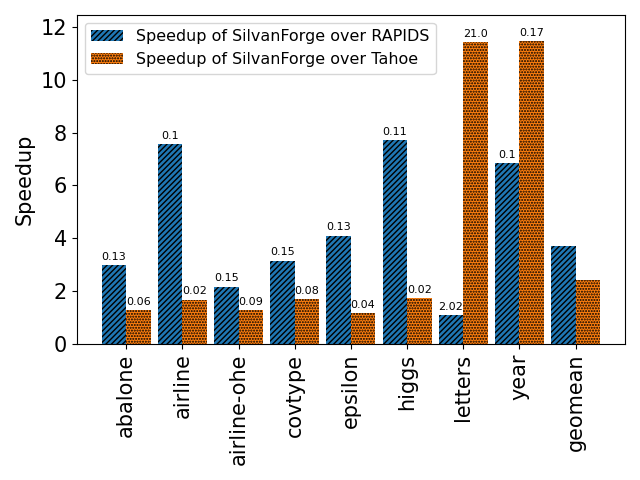
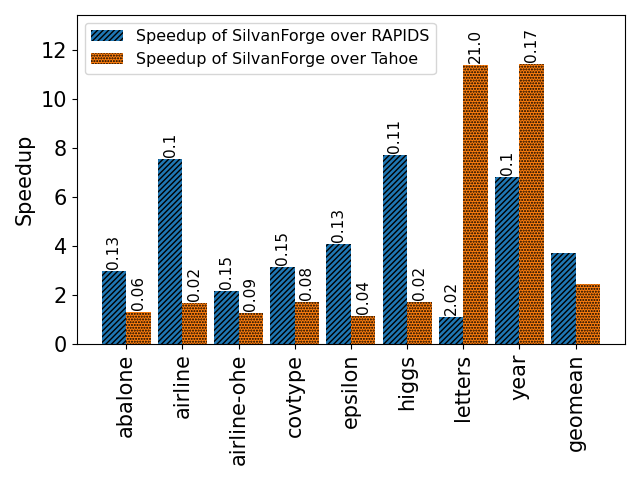
rotate bar labels 90 deg and make it slightly bigger

diff --git a/results/python/analyze_gpu_speedups_results.py b/results/python/analyze_gpu_speedups_results.py
@@ -19,7 +19,7 @@ PLOT_FILE_EXTENSION = 'png'
 AXIS_FONT_SIZE = 15
 LABEL_FONT_SIZE = 15
 LEGEND_FONT_SIZE = 11.5
-BAR_LABEL_FONT_SIZE = 8
+BAR_LABEL_FONT_SIZE = 11
 
 def plot_bar_graph_of_abs_times_for_batch_size(df, batch_size):
     filtered_df = df[df['Batch size'] == batch_size]
@@ -109,7 +109,7 @@ def plot_bar_graph_speedups_for_batch_size(df, batch_size, kwargs=None):
     # enable grid
     # ax.grid(True, which='both', axis='y')
 
-    ax.set_ylim(0, max(max(rapids_speedup), max(tahoe_speedup)) + 1)
+    ax.set_ylim(0, max(max(rapids_speedup), max(tahoe_speedup)) + 2)
 
     # Add labels and title
     # ax.set_xlabel('Benchmark', fontsize=LABEL_FONT_SIZE)
@@ -127,11 +127,11 @@ def plot_bar_graph_speedups_for_batch_size(df, batch_size, kwargs=None):
         rt = round(rt, 2)
         tt = round(tt, 2)
 
-        plt.text(benchmark, rs + 0.2 , str(rt), ha='center', fontsize=BAR_LABEL_FONT_SIZE)
-        plt.text(benchmark + width, ts + 0.2, str(tt), ha='center', fontsize=BAR_LABEL_FONT_SIZE)
+        plt.text(benchmark, rs + 0.2 , str(rt), ha='center', fontsize=BAR_LABEL_FONT_SIZE, rotation=90)
+        plt.text(benchmark + width, ts + 0.2, str(tt), ha='center', fontsize=BAR_LABEL_FONT_SIZE, rotation=90)
 
     # Show the legend and plot
-    plt.legend(fontsize=LEGEND_FONT_SIZE)
+    plt.legend(fontsize=LEGEND_FONT_SIZE, loc='upper left')
     plt.tight_layout()
     # plt.show()
     plt.savefig(f'speedup_bar_graph_{batch_size}.{PLOT_FILE_EXTENSION}')
